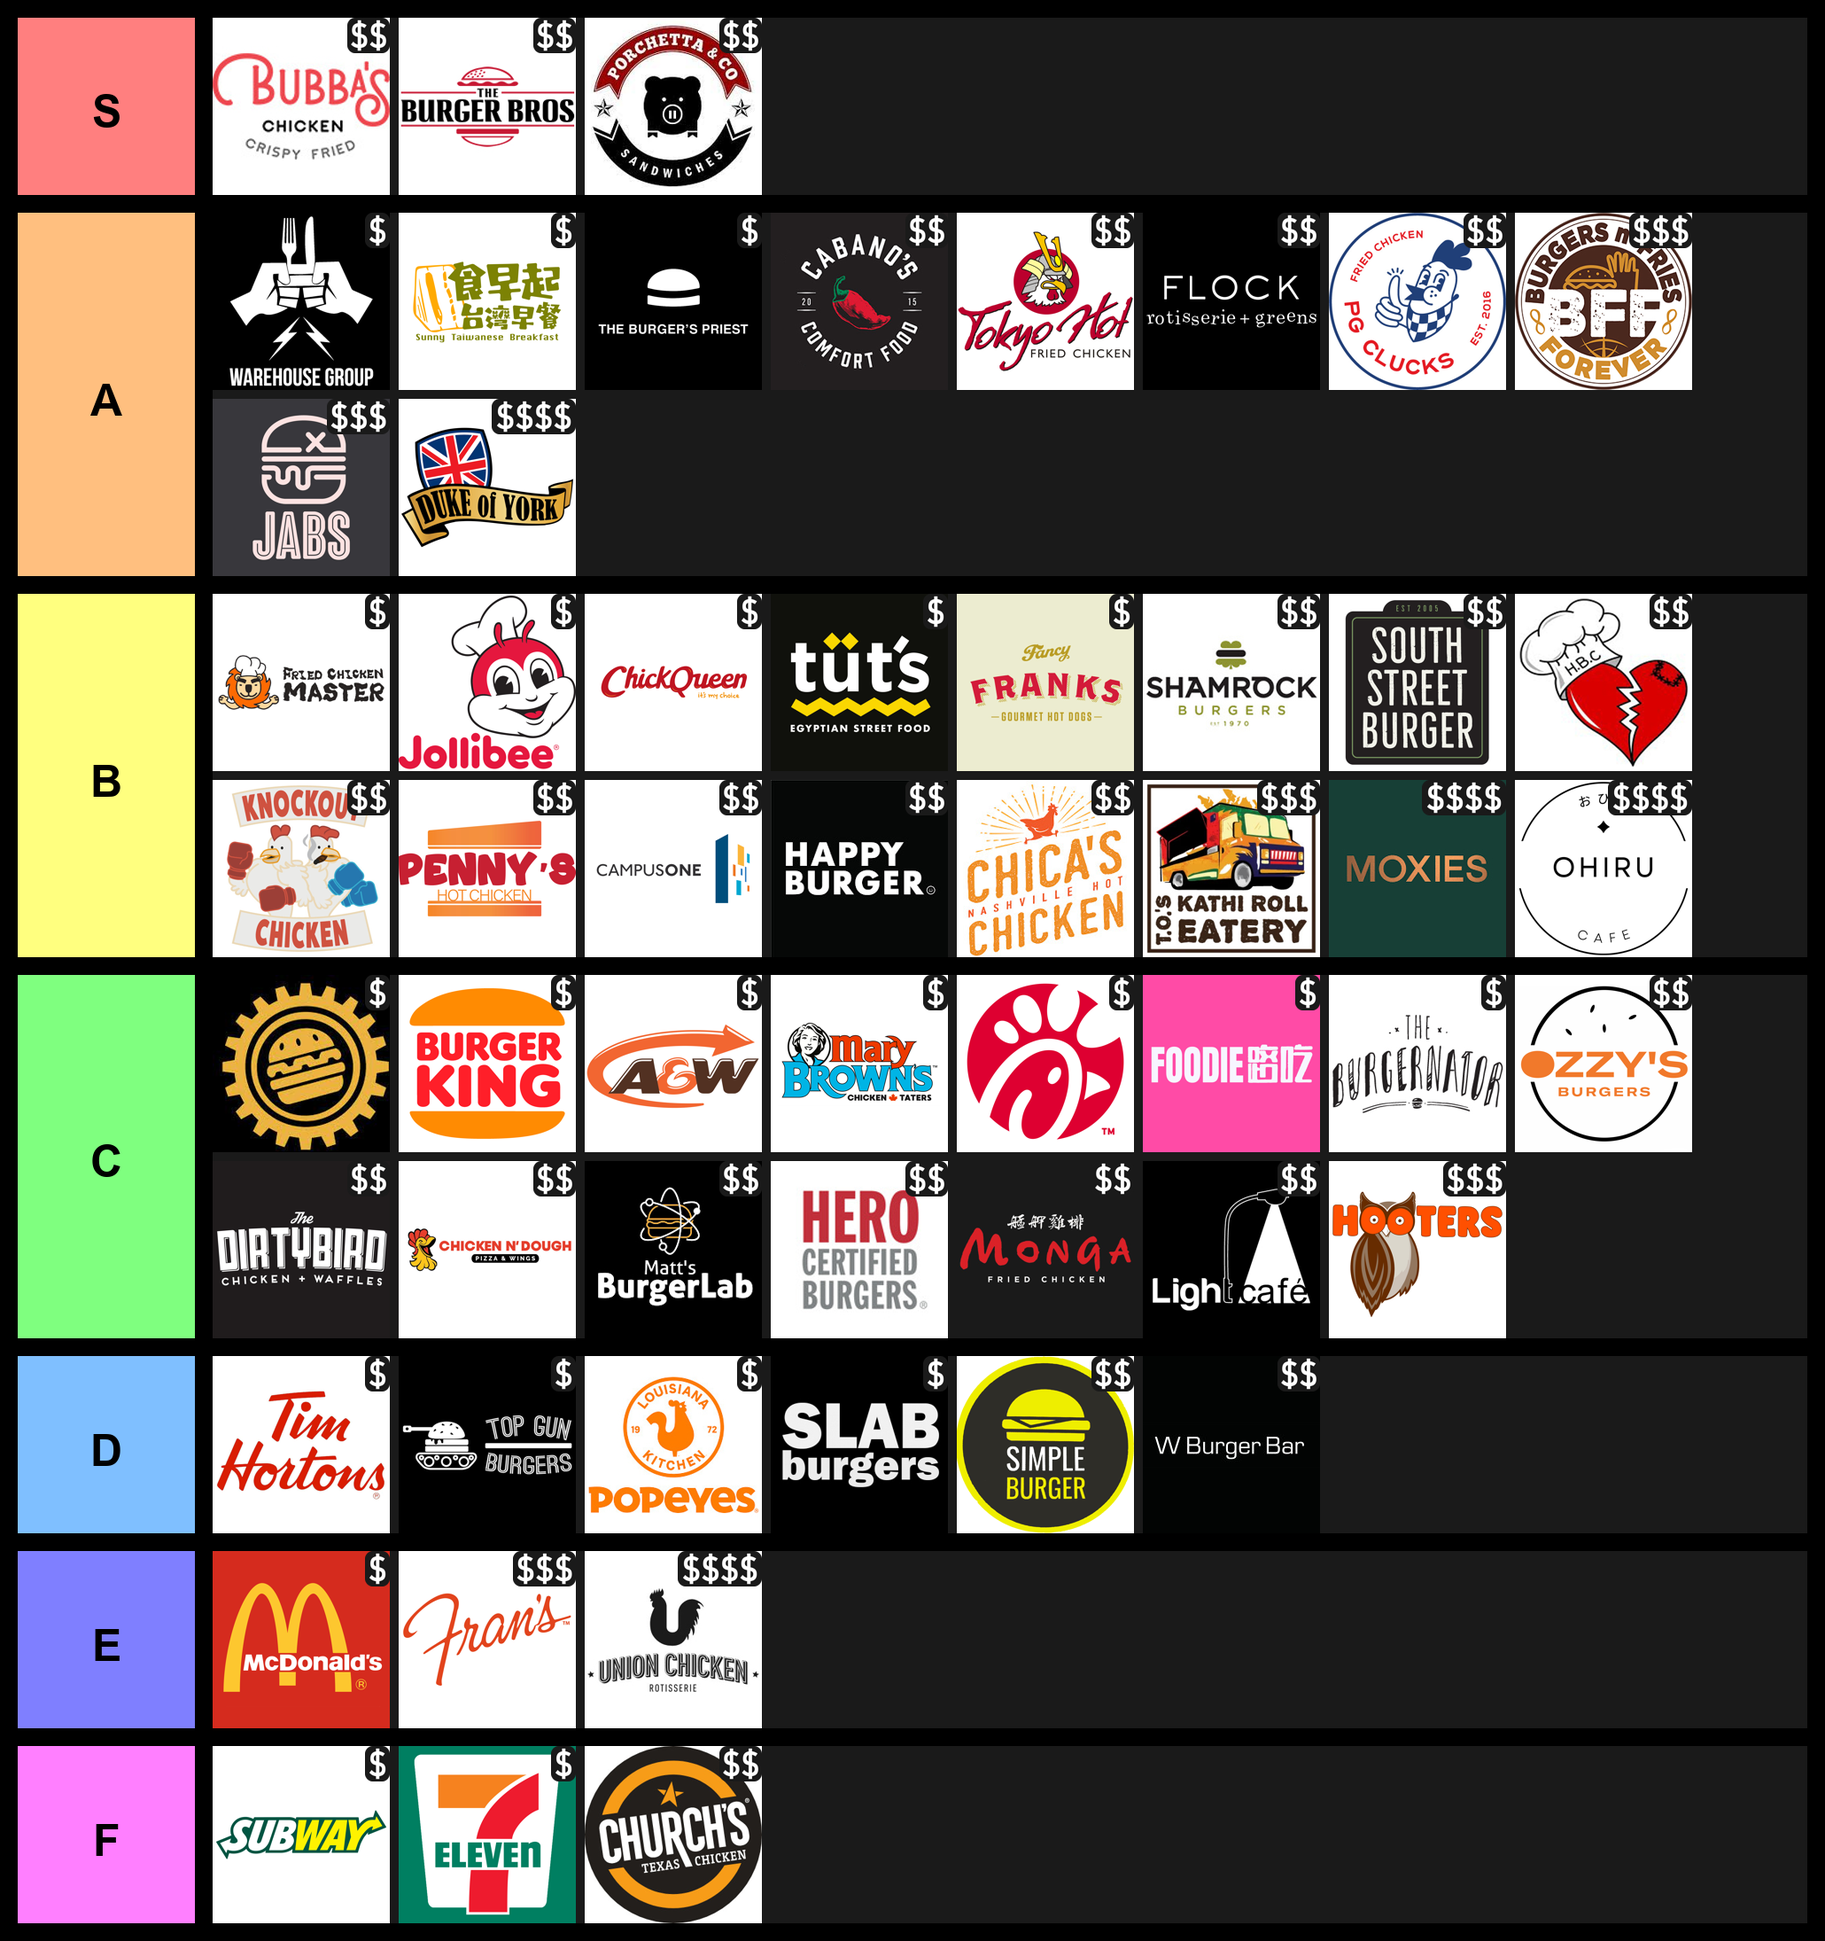
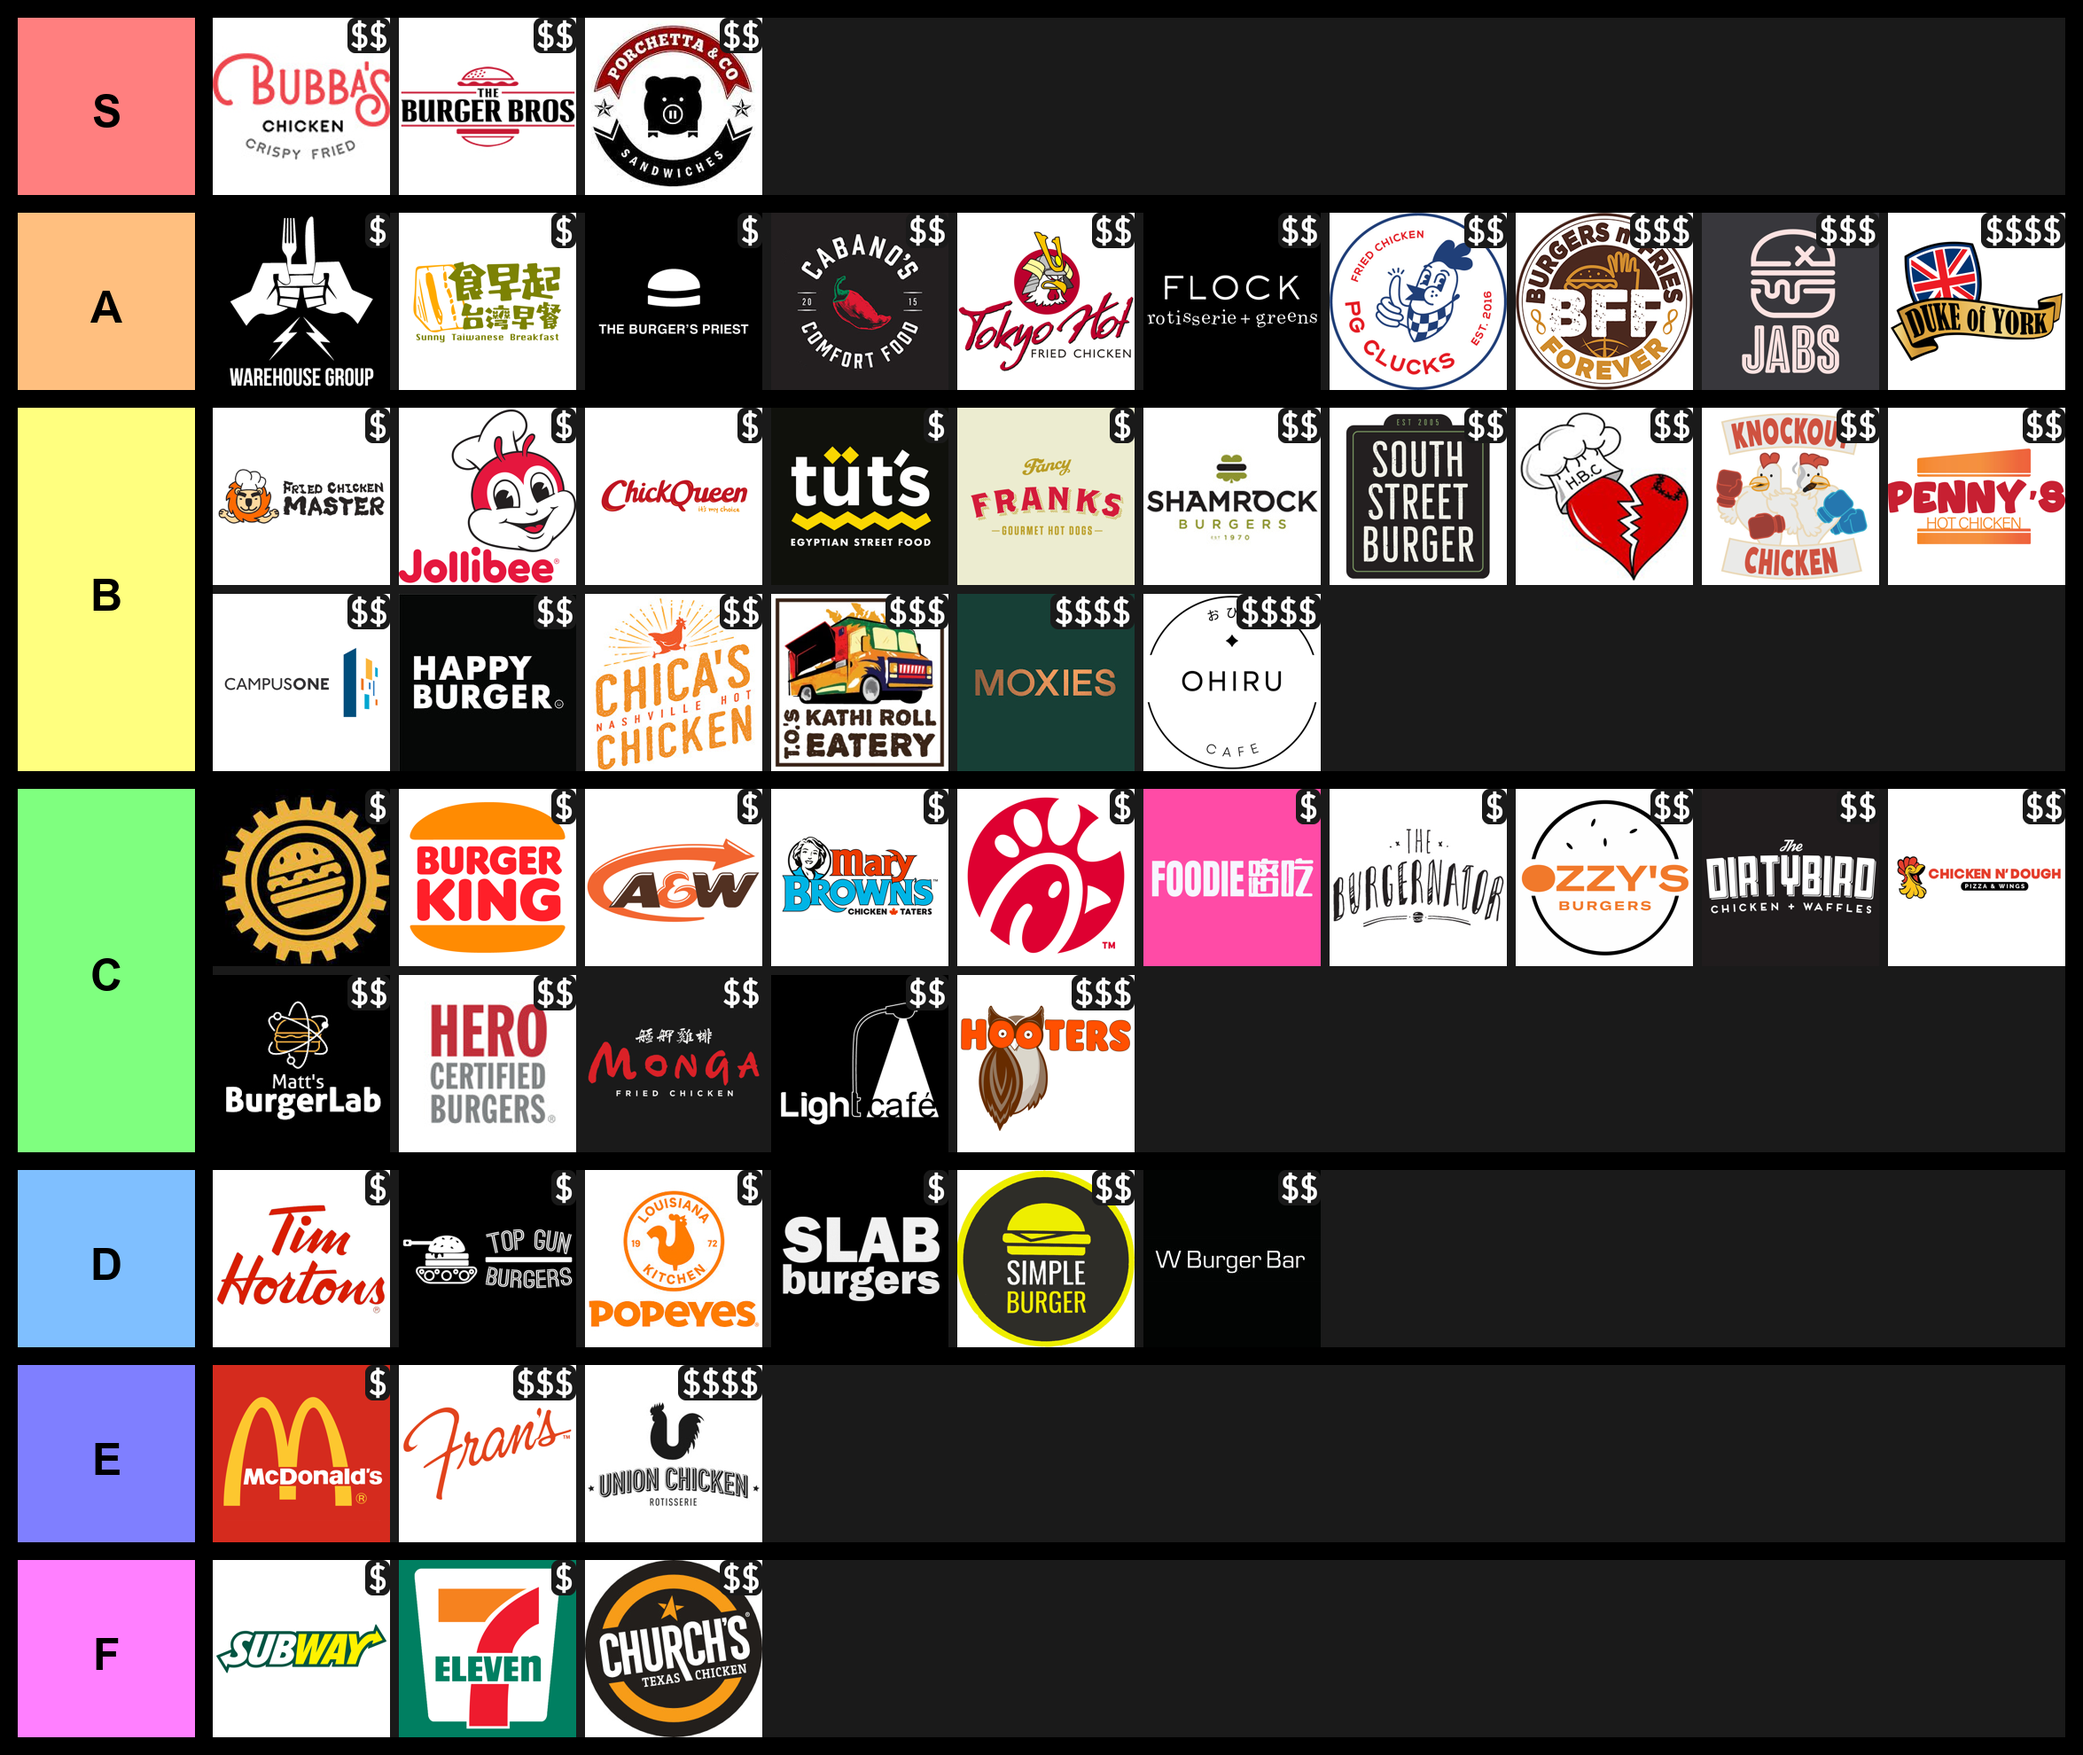
New tierlist image width

diff --git a/tierlist.py b/tierlist.py
@@ -8,11 +8,16 @@ DEFAULT_GAP = 20
 DEFAULT_FONT = "arialbd.ttf"
 FONT_SIZE = 50
 GAPS_BETWEEN_RESTAURANTS = 10
+NUM_LOGOS_PER_ROW = 10
 # TODO: Change the width if needed
-BACKGROUND_WIDTH = 1800
+BACKGROUND_WIDTH = DEFAULT_WIDTH * NUM_LOGOS_PER_ROW + GAPS_BETWEEN_RESTAURANTS * (NUM_LOGOS_PER_ROW - 1)
 BACKGROUND_COLOUR = (26, 26, 26)
-NUM_LOGOS_PER_ROW = BACKGROUND_WIDTH // (DEFAULT_WIDTH + GAPS_BETWEEN_RESTAURANTS)
-tier_num_rows = {key: (len(TIER_DICT[key]) - 1) // NUM_LOGOS_PER_ROW + 1 for key in TIER_DICT}
+tier_num_rows = {}
+for key in TIER_DICT:
+    if len(TIER_DICT[key]) % NUM_LOGOS_PER_ROW == 0:
+        tier_num_rows[key] = len(TIER_DICT[key]) // NUM_LOGOS_PER_ROW
+    else:
+        tier_num_rows[key] = len(TIER_DICT[key]) // NUM_LOGOS_PER_ROW + 1
 
 def total_num_restaurants():
     return sum(tier_num_rows[tier] for tier in tier_num_rows)
